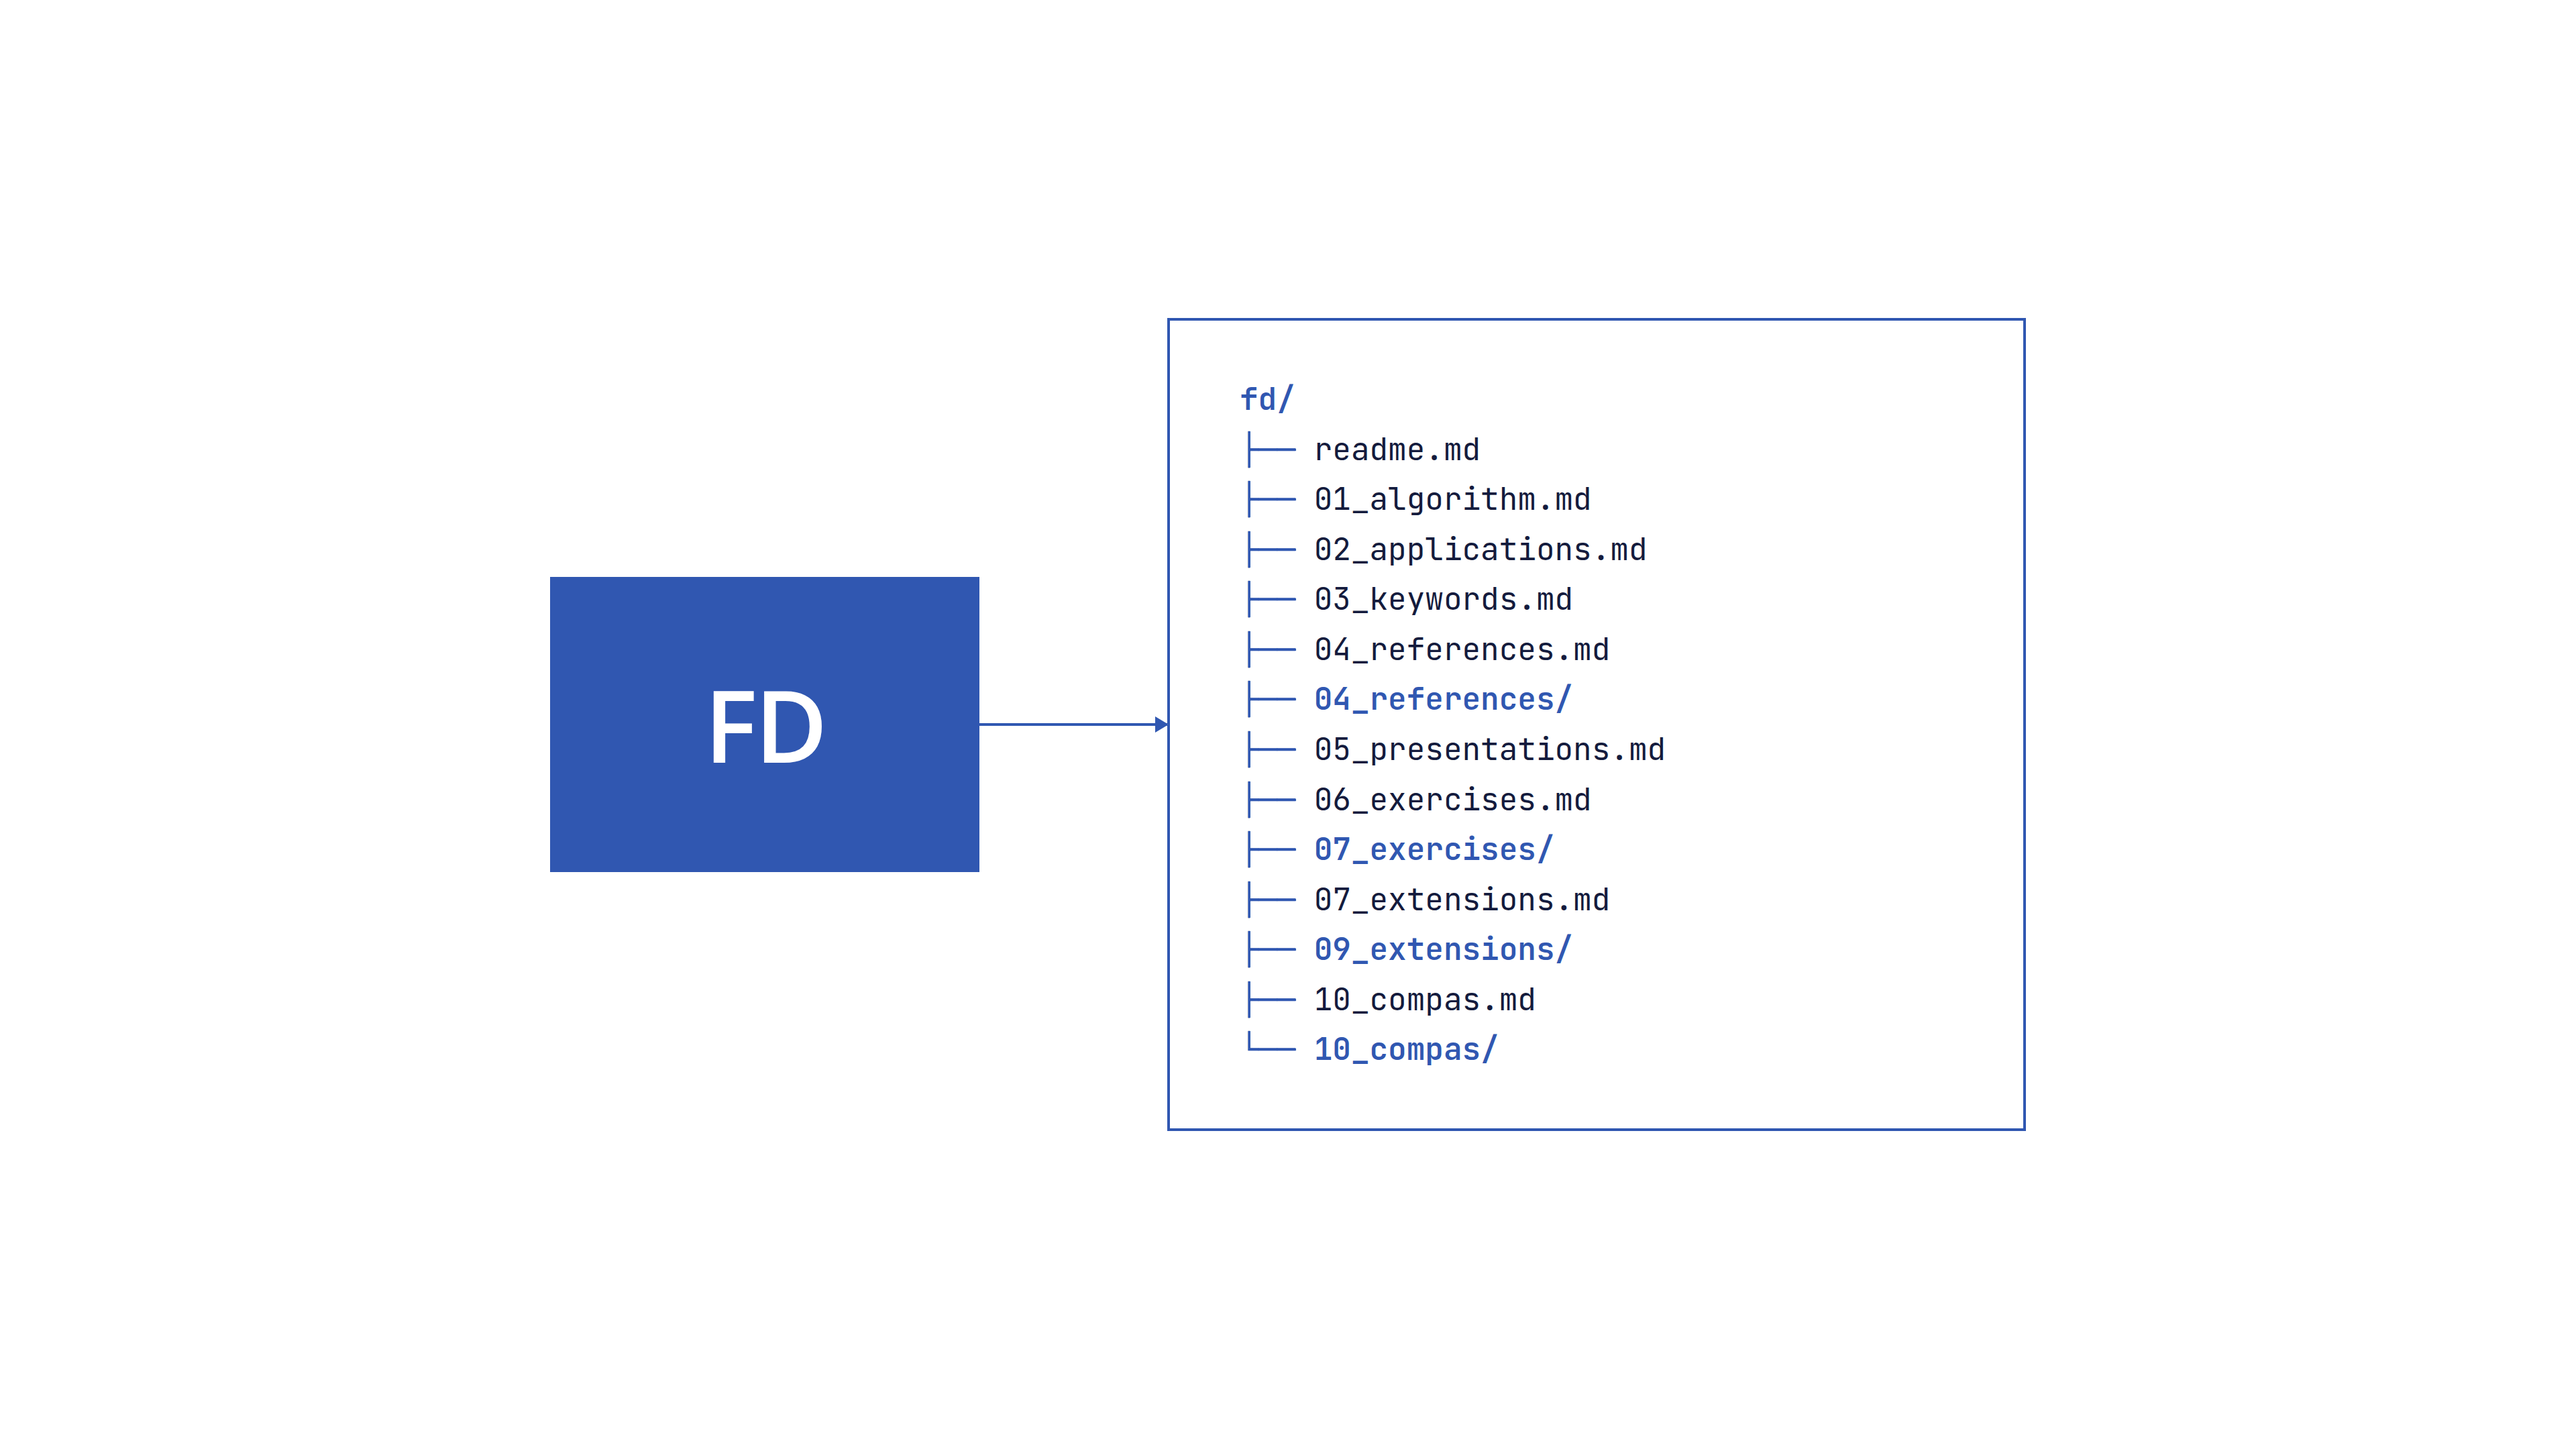
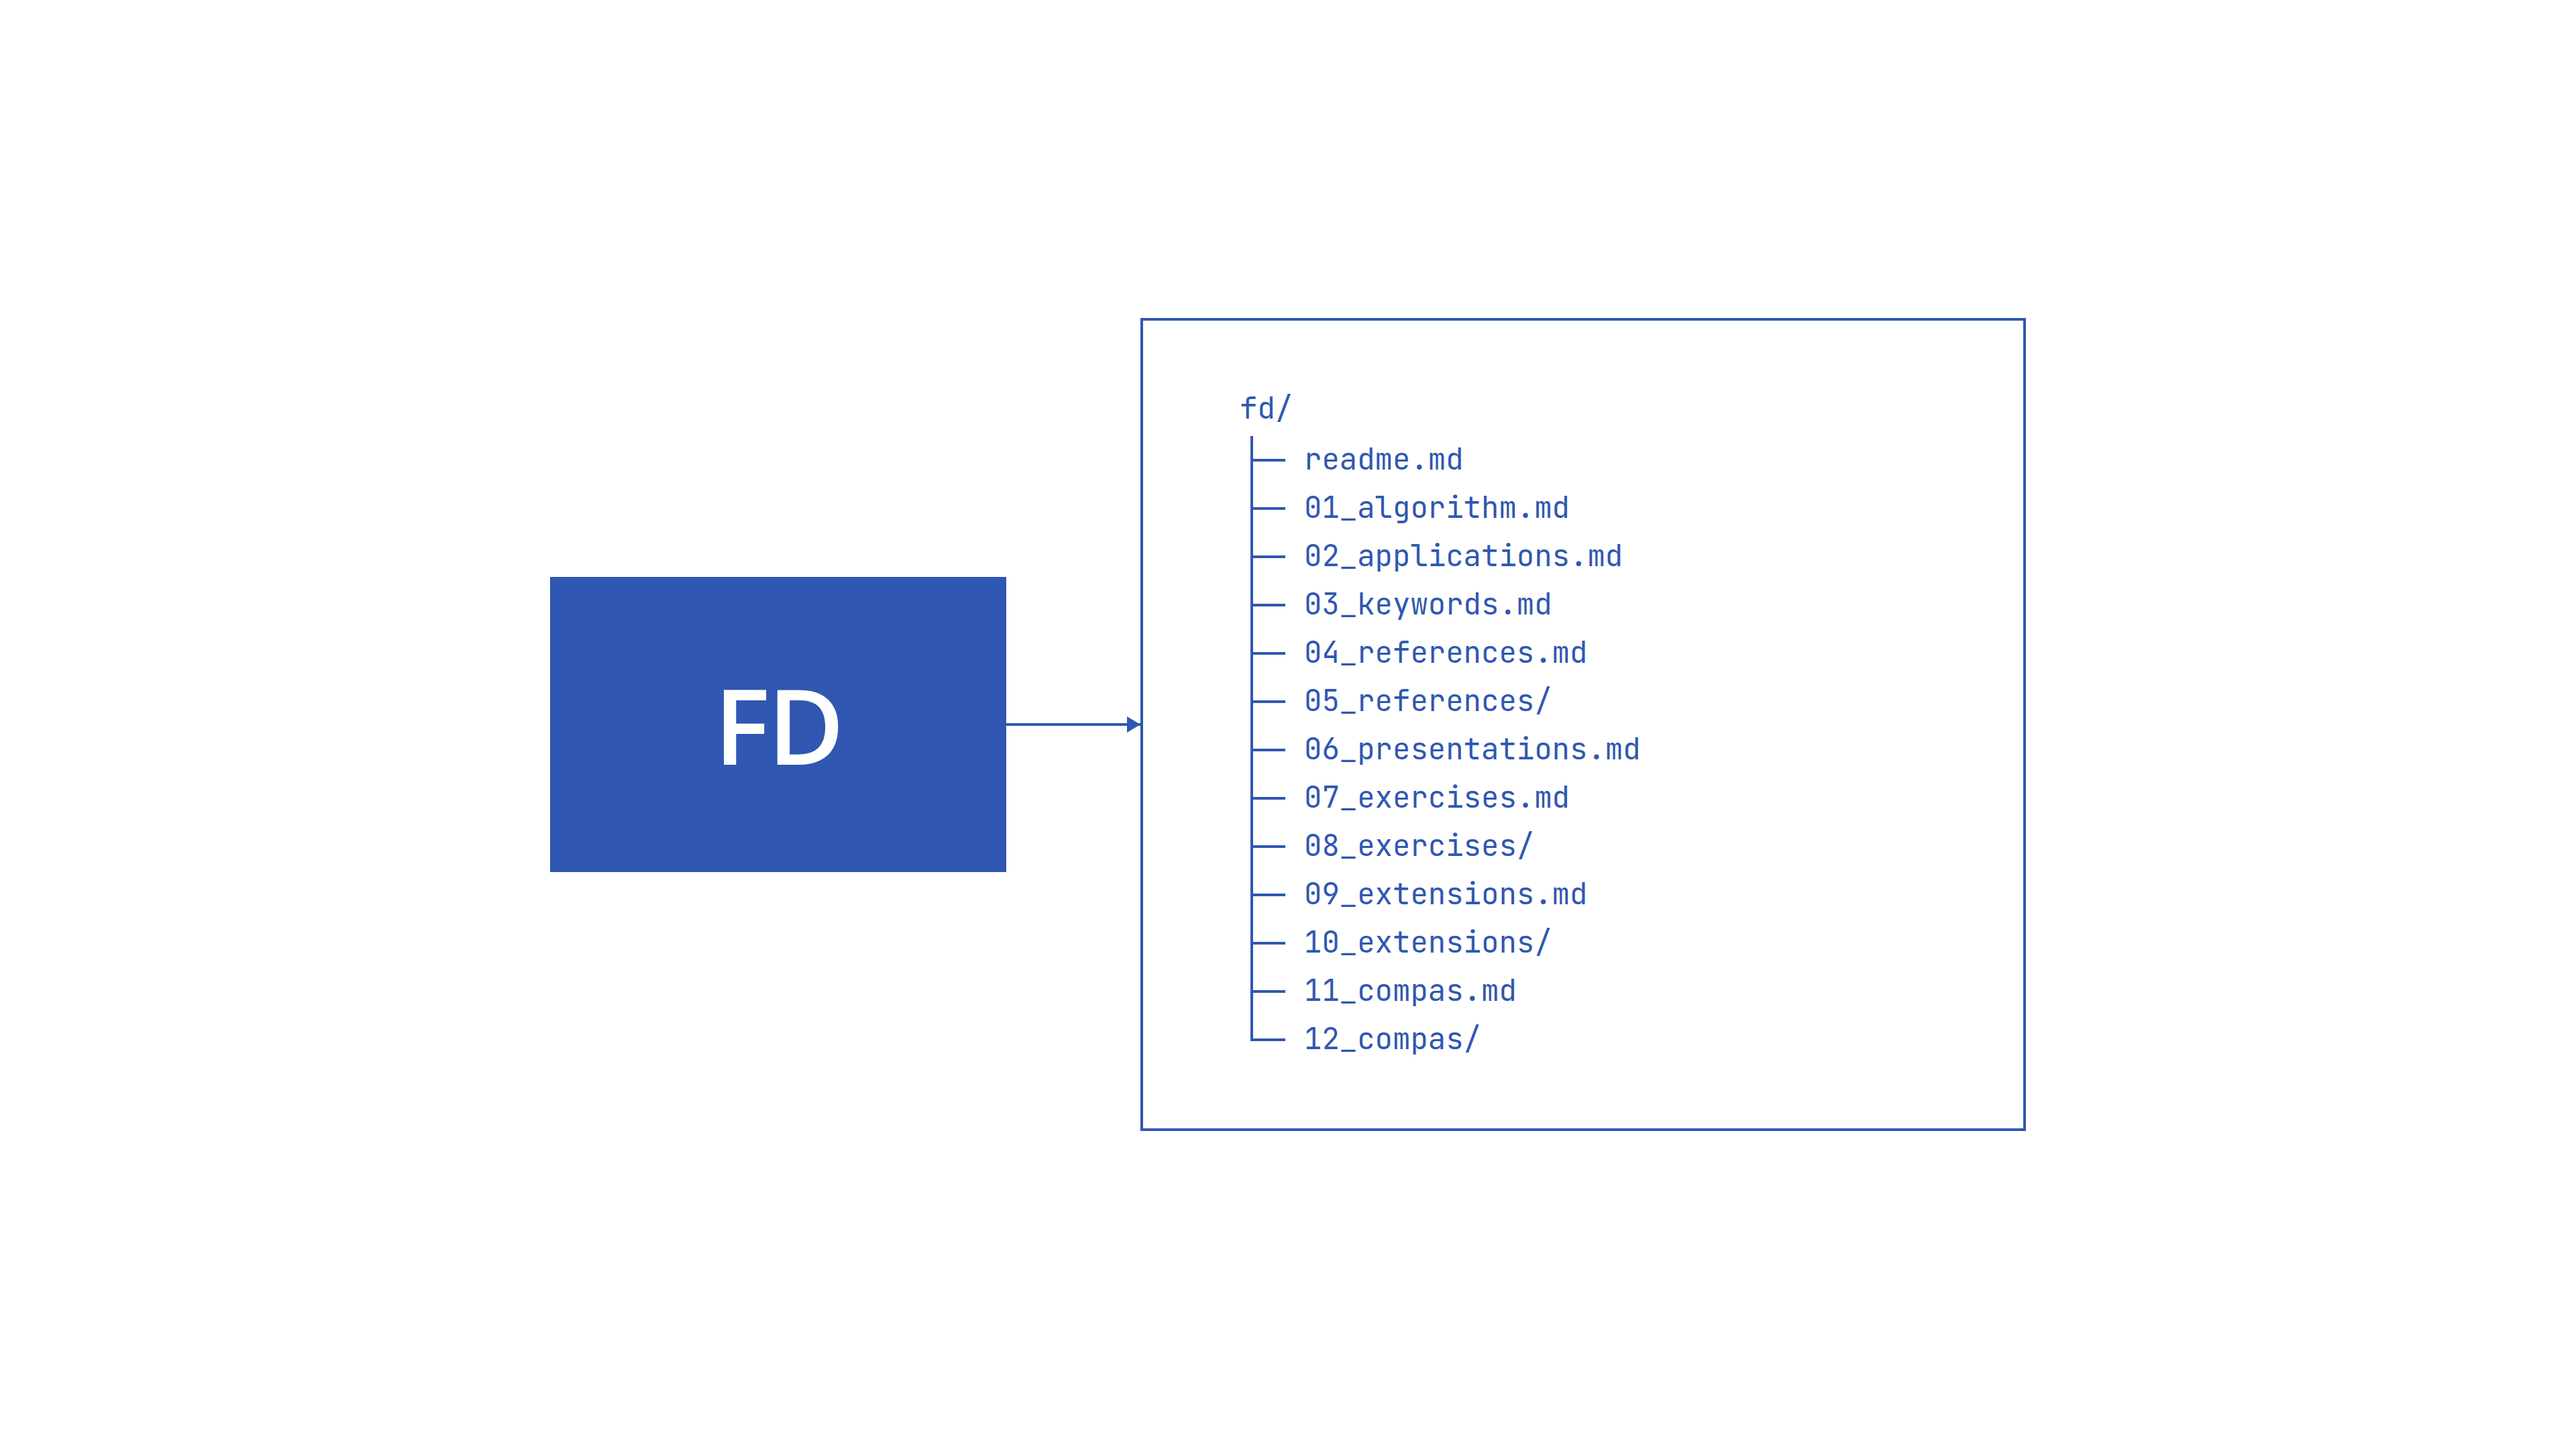
Remove folder highlighting and renumber FD and TNA directory trees sequentially 01-12

diff --git a/CAS/website/data.js b/CAS/website/data.js
@@ -110,7 +110,7 @@ window.CAS = {
             },
             { src: 'presentations/mcp/slide-4.png?v=4', alt: 'LLM for BRG architecture: Context layers (MCP and Memory first, followed by Hooks, Skills, Agents) connected to BRG and the Context, Parsing, Storage, Indexing and LLM pipeline.' },
             { src: 'presentations/mcp/slide-5.png?v=3', alt: 'Method focus across four subjects: FD (Force Density, highlighted), DR (Dynamic Relaxation), TNA (Thrust Network Analysis) and AGS (Algebraic Graphic Statics).' },
-            { src: 'presentations/mcp/slide-6.png?v=4', alt: 'Folder structure of brg_framework MCP for the Force Density (FD) method.' },
+            { src: 'presentations/mcp/slide-6.png?v=5', alt: 'Folder structure of brg_framework MCP for the Force Density (FD) method.' },
             {
               key: 'interactive-drawing-fd',
               alt: 'Interactive Force Density presentations (5 clickable decks) and 02-question.yaml stage format, displayed beside a large clickable laptop.',
@@ -144,7 +144,7 @@ slides:
               },
             },
             { src: 'presentations/mcp/slide-5-tna.png?v=1', alt: 'Method focus across four subjects: FD (Force Density), DR (Dynamic Relaxation), TNA (Thrust Network Analysis, highlighted) and AGS (Algebraic Graphic Statics).' },
-            { src: 'presentations/mcp/slide-6-tna.png?v=1', alt: 'Folder structure of brg_framework MCP for the Thrust Network Analysis (TNA) method.' },
+            { src: 'presentations/mcp/slide-6-tna.png?v=2', alt: 'Folder structure of brg_framework MCP for the Thrust Network Analysis (TNA) method.' },
             {
               key: 'interactive-drawing-tna',
               alt: 'Interactive Thrust Network Analysis presentations (5 clickable decks) and YAML stage format, displayed beside a large clickable laptop.',
